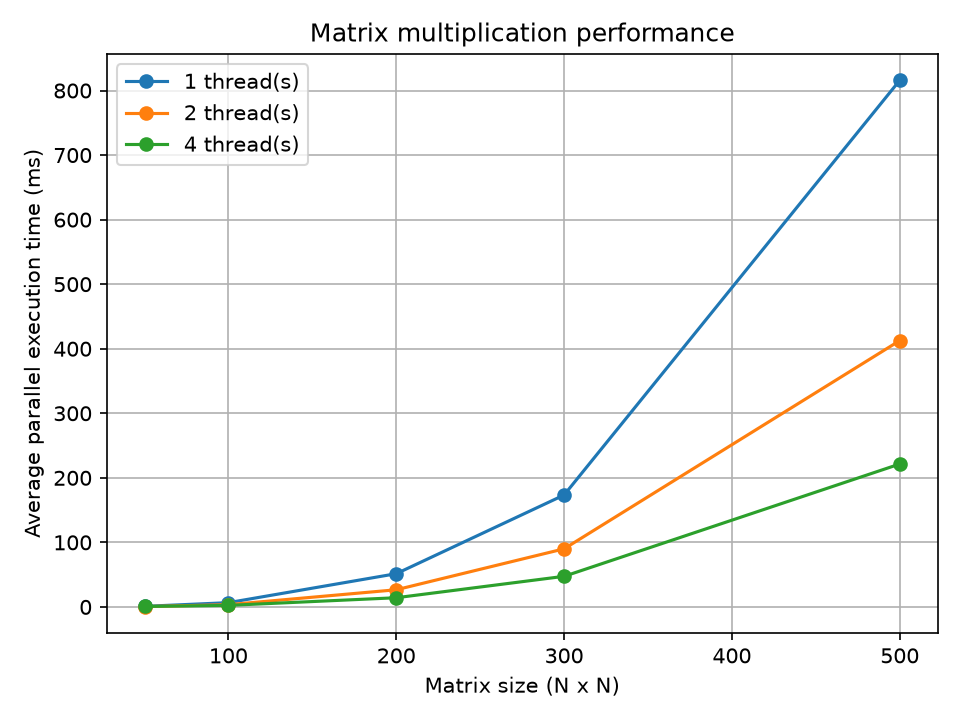
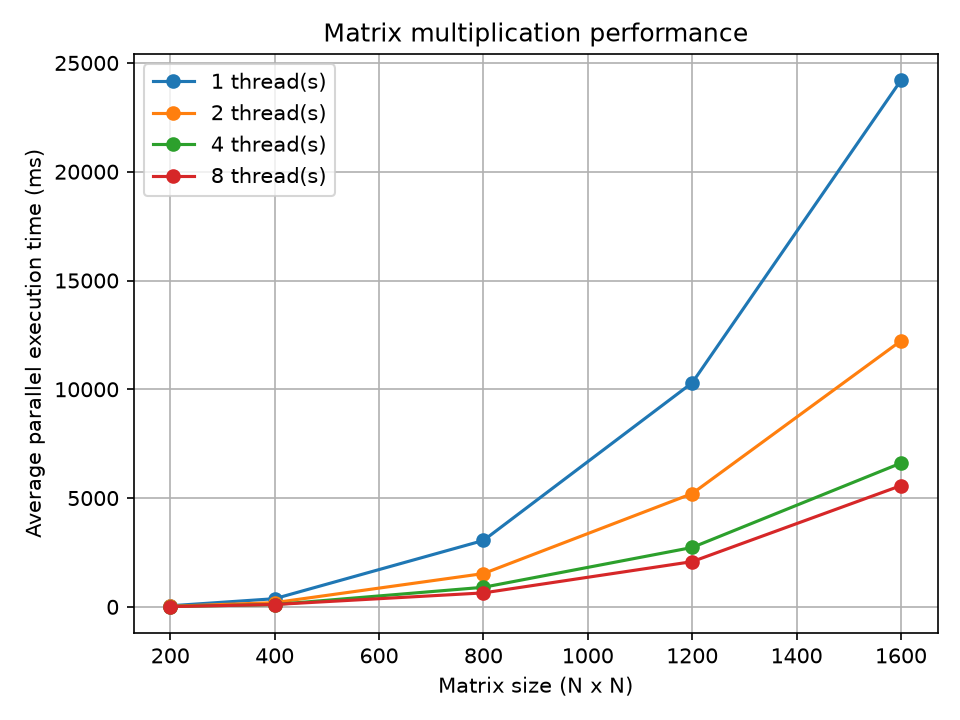
Add OpenMP matrix multiplication experiments

diff --git a/main.cpp b/main.cpp
@@ -3,7 +3,7 @@
 #include <vector>
 #include <chrono>
 #include <iomanip>
-#include <thread>
+#include <omp.h>
 #include <algorithm>
 #include <string>
 
@@ -38,39 +38,18 @@ ResultMatrix multiply_parallel(
     int thread_count)
 {
     ResultMatrix C(n, vector<long long>(n, 0));
-    vector<thread> threads;
 
-    int rows_per_thread = n / thread_count;
-    int remaining_rows = n % thread_count;
-    int start_row = 0;
-
-    for (int t = 0; t < thread_count; t++)
+#pragma omp parallel for num_threads(thread_count) schedule(static)
+    for (int i = 0; i < n; i++)
     {
-        int rows = rows_per_thread + (t < remaining_rows ? 1 : 0);
-        int end_row = start_row + rows;
-
-        threads.emplace_back(
-            [&A, &B, &C, n, start_row, end_row]()
+        for (int k = 0; k < n; k++)
+        {
+            for (int j = 0; j < n; j++)
             {
-                for (int i = start_row; i < end_row; i++)
-                {
-                    for (int k = 0; k < n; k++)
-                    {
-                        for (int j = 0; j < n; j++)
-                        {
-                            C[i][j] +=
-                                static_cast<long long>(A[i][k]) * B[k][j];
-                        }
-                    }
-                }
-            });
-
-        start_row = end_row;
-    }
-
-    for (auto &thread : threads)
-    {
-        thread.join();
+                C[i][j] +=
+                    static_cast<long long>(A[i][k]) * B[k][j];
+            }
+        }
     }
 
     return C;

diff --git a/plot.py b/plot.py
@@ -10,8 +10,8 @@ ROOT = Path(__file__).resolve().parent
 PROGRAM = ROOT / "build" / "matrix"
 GENERATOR = ROOT / "gen.py"
 
-SIZES = [50, 100, 200, 300, 500]
-THREAD_COUNTS = [1, 2, 4]
+SIZES = [200, 400, 800, 1200, 1600]
+THREAD_COUNTS = [1, 2, 4, 8]
 REPEATS = 3
 
 if not PROGRAM.exists():
